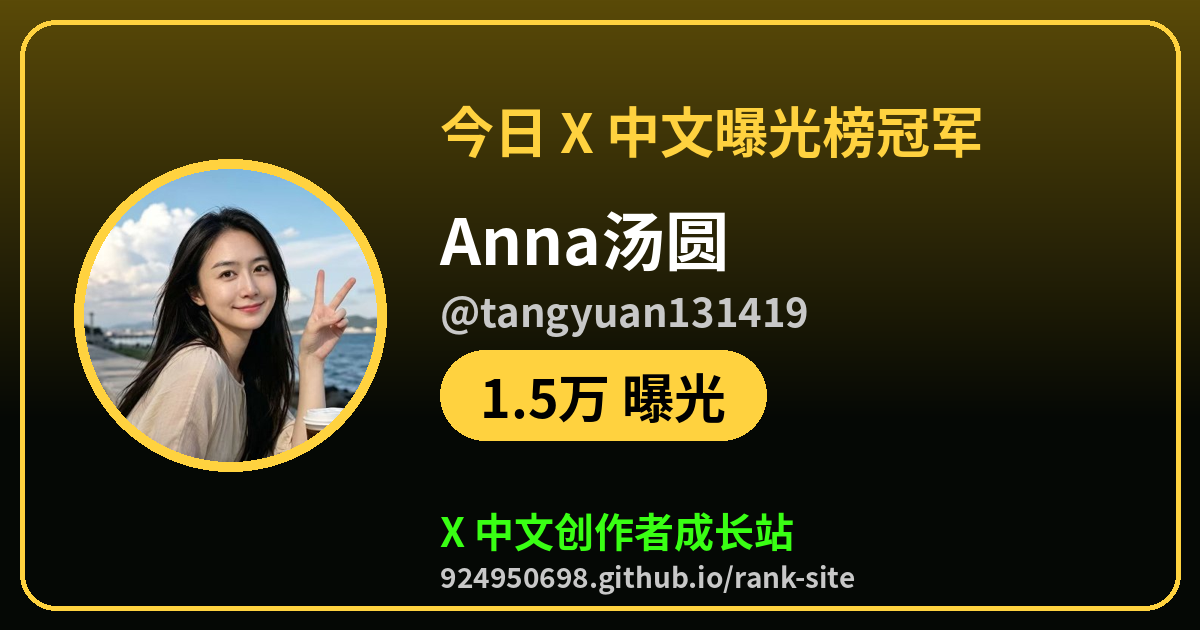
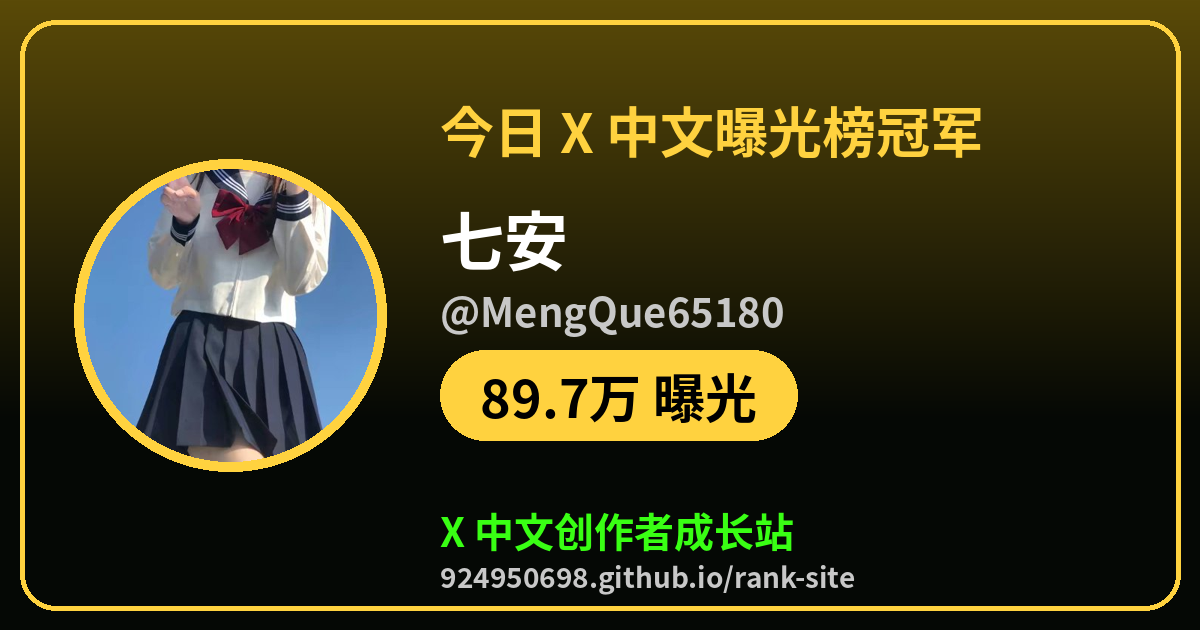
champ: 2026-10-21 11:28 CST

Changed region(s): [[0.0617, 0.2714, 0.3392, 0.754], [0.37, 0.3317, 0.6783, 0.7238]]

diff --git a/champ/exposure.html b/champ/exposure.html
@@ -1,7 +1,7 @@
 <!doctype html><html lang="zh-CN"><head><meta charset="utf-8"><meta name="viewport" content="width=device-width,initial-scale=1">
-<title>今日 X 中文曝光榜冠军：Anna汤圆🦅（@tangyuan131419）</title><meta name="description" content="1.5万 曝光，来看看今天谁在爆，你排第几">
-<meta property="og:type" content="website"><meta property="og:url" content="https://924950698.github.io/rank-site/champ/exposure.html"><meta property="og:title" content="今日 X 中文曝光榜冠军：Anna汤圆🦅（@tangyuan131419）"><meta property="og:description" content="1.5万 曝光，来看看今天谁在爆，你排第几">
-<meta property="og:image" content="https://924950698.github.io/rank-site/champ/exposure.png?v=20261021T0203"><meta name="twitter:card" content="summary_large_image"><meta name="twitter:site" content="@tigerr3aue">
-<meta name="twitter:title" content="今日 X 中文曝光榜冠军：Anna汤圆🦅（@tangyuan131419）"><meta name="twitter:description" content="1.5万 曝光，来看看今天谁在爆，你排第几"><meta name="twitter:image" content="https://924950698.github.io/rank-site/champ/exposure.png?v=20261021T0203">
-<meta http-equiv="refresh" content="0;url=https://924950698.github.io/rank-site/?champ=tangyuan131419&amp;board=exposure#rank"><script>location.replace("https://924950698.github.io/rank-site/?champ=tangyuan131419&board=exposure#rank")</script></head>
-<body style="background:#000;color:#fff;font-family:sans-serif;text-align:center;padding:40px"><a href="https://924950698.github.io/rank-site/?champ=tangyuan131419&amp;board=exposure#rank" style="color:#39ff14">去 X 中文创作者成长站看冠军卡片</a></body></html>
+<title>今日 X 中文曝光榜冠军：七安（@MengQue65180）</title><meta name="description" content="89.7万 曝光，来看看今天谁在爆，你排第几">
+<meta property="og:type" content="website"><meta property="og:url" content="https://924950698.github.io/rank-site/champ/exposure.html"><meta property="og:title" content="今日 X 中文曝光榜冠军：七安（@MengQue65180）"><meta property="og:description" content="89.7万 曝光，来看看今天谁在爆，你排第几">
+<meta property="og:image" content="https://924950698.github.io/rank-site/champ/exposure.png?v=20261021T0303"><meta name="twitter:card" content="summary_large_image"><meta name="twitter:site" content="@tigerr3aue">
+<meta name="twitter:title" content="今日 X 中文曝光榜冠军：七安（@MengQue65180）"><meta name="twitter:description" content="89.7万 曝光，来看看今天谁在爆，你排第几"><meta name="twitter:image" content="https://924950698.github.io/rank-site/champ/exposure.png?v=20261021T0303">
+<meta http-equiv="refresh" content="0;url=https://924950698.github.io/rank-site/?champ=MengQue65180&amp;board=exposure#rank"><script>location.replace("https://924950698.github.io/rank-site/?champ=MengQue65180&board=exposure#rank")</script></head>
+<body style="background:#000;color:#fff;font-family:sans-serif;text-align:center;padding:40px"><a href="https://924950698.github.io/rank-site/?champ=MengQue65180&amp;board=exposure#rank" style="color:#39ff14">去 X 中文创作者成长站看冠军卡片</a></body></html>

diff --git a/champ/comments.html b/champ/comments.html
@@ -1,7 +1,7 @@
 <!doctype html><html lang="zh-CN"><head><meta charset="utf-8"><meta name="viewport" content="width=device-width,initial-scale=1">
-<title>今日 X 中文评论榜冠军：Anna汤圆🦅（@tangyuan131419）</title><meta name="description" content="684 评论，来看看今天谁在爆，你排第几">
-<meta property="og:type" content="website"><meta property="og:url" content="https://924950698.github.io/rank-site/champ/comments.html"><meta property="og:title" content="今日 X 中文评论榜冠军：Anna汤圆🦅（@tangyuan131419）"><meta property="og:description" content="684 评论，来看看今天谁在爆，你排第几">
-<meta property="og:image" content="https://924950698.github.io/rank-site/champ/comments.png?v=20261021T0203"><meta name="twitter:card" content="summary_large_image"><meta name="twitter:site" content="@tigerr3aue">
-<meta name="twitter:title" content="今日 X 中文评论榜冠军：Anna汤圆🦅（@tangyuan131419）"><meta name="twitter:description" content="684 评论，来看看今天谁在爆，你排第几"><meta name="twitter:image" content="https://924950698.github.io/rank-site/champ/comments.png?v=20261021T0203">
+<title>今日 X 中文评论榜冠军：Anna汤圆🦅（@tangyuan131419）</title><meta name="description" content="685 评论，来看看今天谁在爆，你排第几">
+<meta property="og:type" content="website"><meta property="og:url" content="https://924950698.github.io/rank-site/champ/comments.html"><meta property="og:title" content="今日 X 中文评论榜冠军：Anna汤圆🦅（@tangyuan131419）"><meta property="og:description" content="685 评论，来看看今天谁在爆，你排第几">
+<meta property="og:image" content="https://924950698.github.io/rank-site/champ/comments.png?v=20261021T0303"><meta name="twitter:card" content="summary_large_image"><meta name="twitter:site" content="@tigerr3aue">
+<meta name="twitter:title" content="今日 X 中文评论榜冠军：Anna汤圆🦅（@tangyuan131419）"><meta name="twitter:description" content="685 评论，来看看今天谁在爆，你排第几"><meta name="twitter:image" content="https://924950698.github.io/rank-site/champ/comments.png?v=20261021T0303">
 <meta http-equiv="refresh" content="0;url=https://924950698.github.io/rank-site/?champ=tangyuan131419&amp;board=comments#rank"><script>location.replace("https://924950698.github.io/rank-site/?champ=tangyuan131419&board=comments#rank")</script></head>
 <body style="background:#000;color:#fff;font-family:sans-serif;text-align:center;padding:40px"><a href="https://924950698.github.io/rank-site/?champ=tangyuan131419&amp;board=comments#rank" style="color:#39ff14">去 X 中文创作者成长站看冠军卡片</a></body></html>
